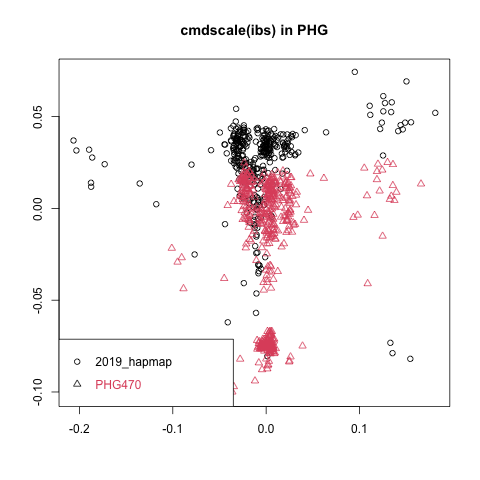
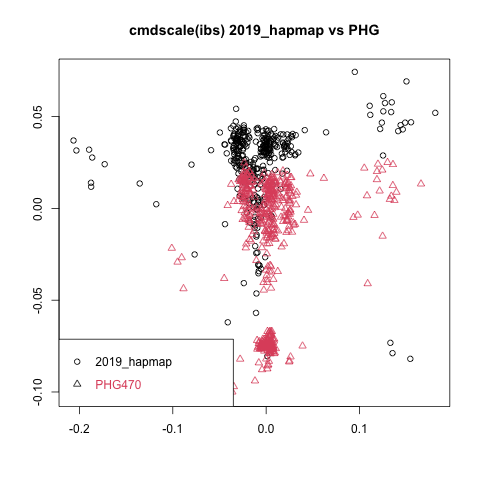
fix labels

Changed region(s): [[0.2812, 0.0312, 0.7812, 0.0938]]

diff --git a/cluster-snprelate3/README.md b/cluster-snprelate3/README.md
@@ -8,7 +8,7 @@ first look at the 13 accessions from Katie (HQ_EC). These are closely related to
 
 ![CMD1](https://github.com/TriticeaeToolbox/PHGv2/blob/main/cluster-snprelate/images/snprelate-cmdscale-HQEC.png)
 
-next look at hapmap_2019 accessions. These are clearly related but not identical to PHG470. It could be differences in
+next look at hapmap_2019 accessions. These are clearly related but not identical to PHG470. You can see a pattern that is produced from over 100 accessions that are identical but don't cluster together. It could be differences in
 - protocol
 - liftover to RefSeqV2
 - the accessions themselves
